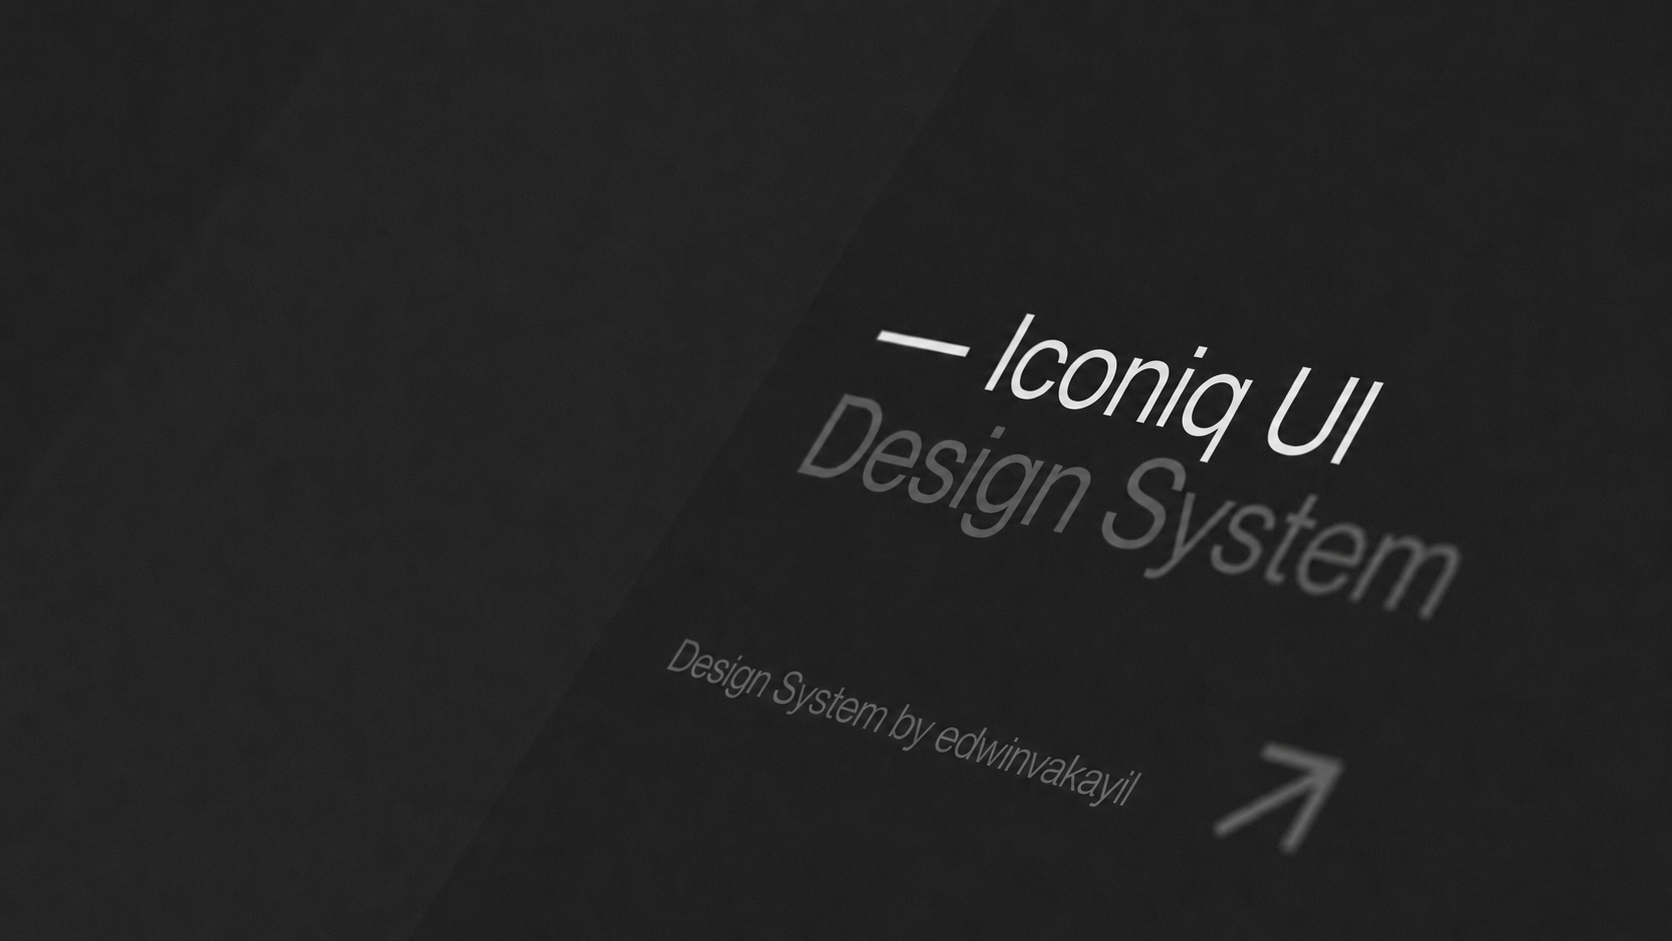
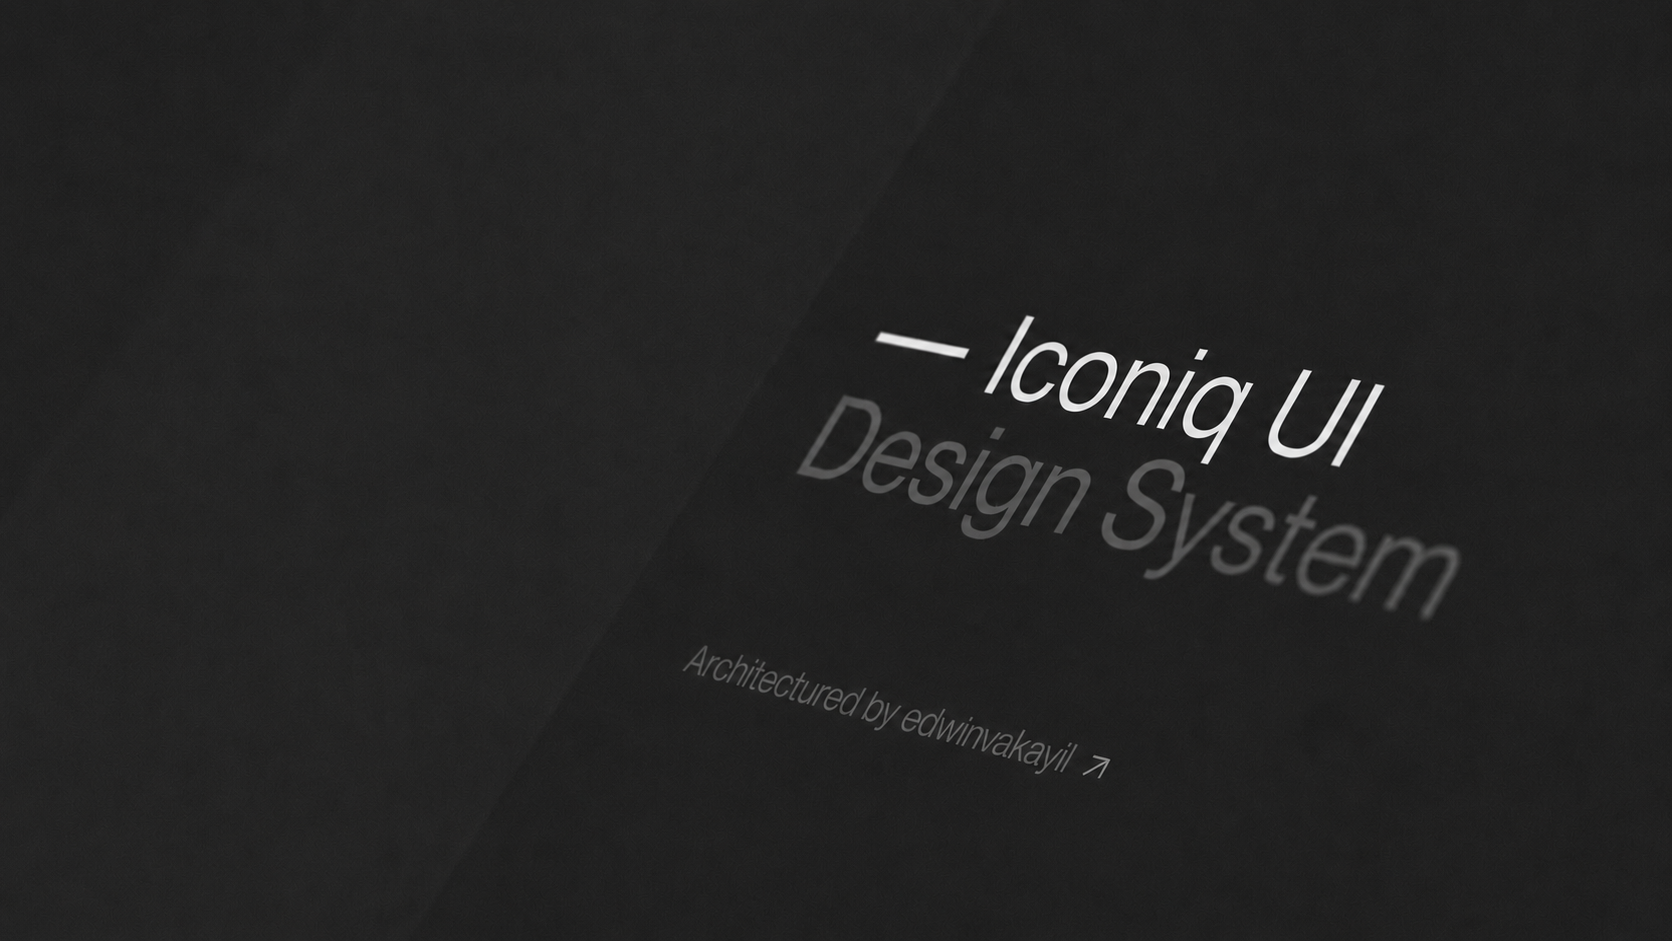
fix: tabs preview page

diff --git a/app/(site)/navigation/tabs/page.tsx b/app/(site)/navigation/tabs/page.tsx
@@ -2,7 +2,10 @@
 
 import { useState } from "react";
 
-import { SharedPrimitiveProviderSwitch } from "@/app/(site)/components/_components/provider-switch";
+import {
+  type PrimitiveProvider,
+  ProviderSwitch,
+} from "@/app/(site)/components/_components/provider-switch";
 import { tabsApiDetails } from "@/components/docs/component-api";
 import { ComponentDocsPage } from "@/components/docs/page-shell";
 import { LINK } from "@/constants";
@@ -31,6 +34,10 @@ const tabSections = [
     value: "files",
   },
 ] as const;
+
+function handleProviderSelect(_provider: PrimitiveProvider) {
+  return undefined;
+}
 
 const usageCode = `"use client";
 
@@ -142,7 +149,13 @@ export default function TabsPage() {
       description="Sectioned panels for switching between related views."
       details={tabsApiDetails}
       editHref={`${LINK.GITHUB}/edit/main/app/(site)/navigation/tabs/page.tsx`}
-      headerActions={<SharedPrimitiveProviderSwitch />}
+      headerActions={
+        <ProviderSwitch
+          disabledProviders={["base"]}
+          onSelect={handleProviderSelect}
+          selectedProvider="radix"
+        />
+      }
       pageUrl="/navigation/tabs"
       preview={<TabsPreview />}
       previewCode={usageCode}